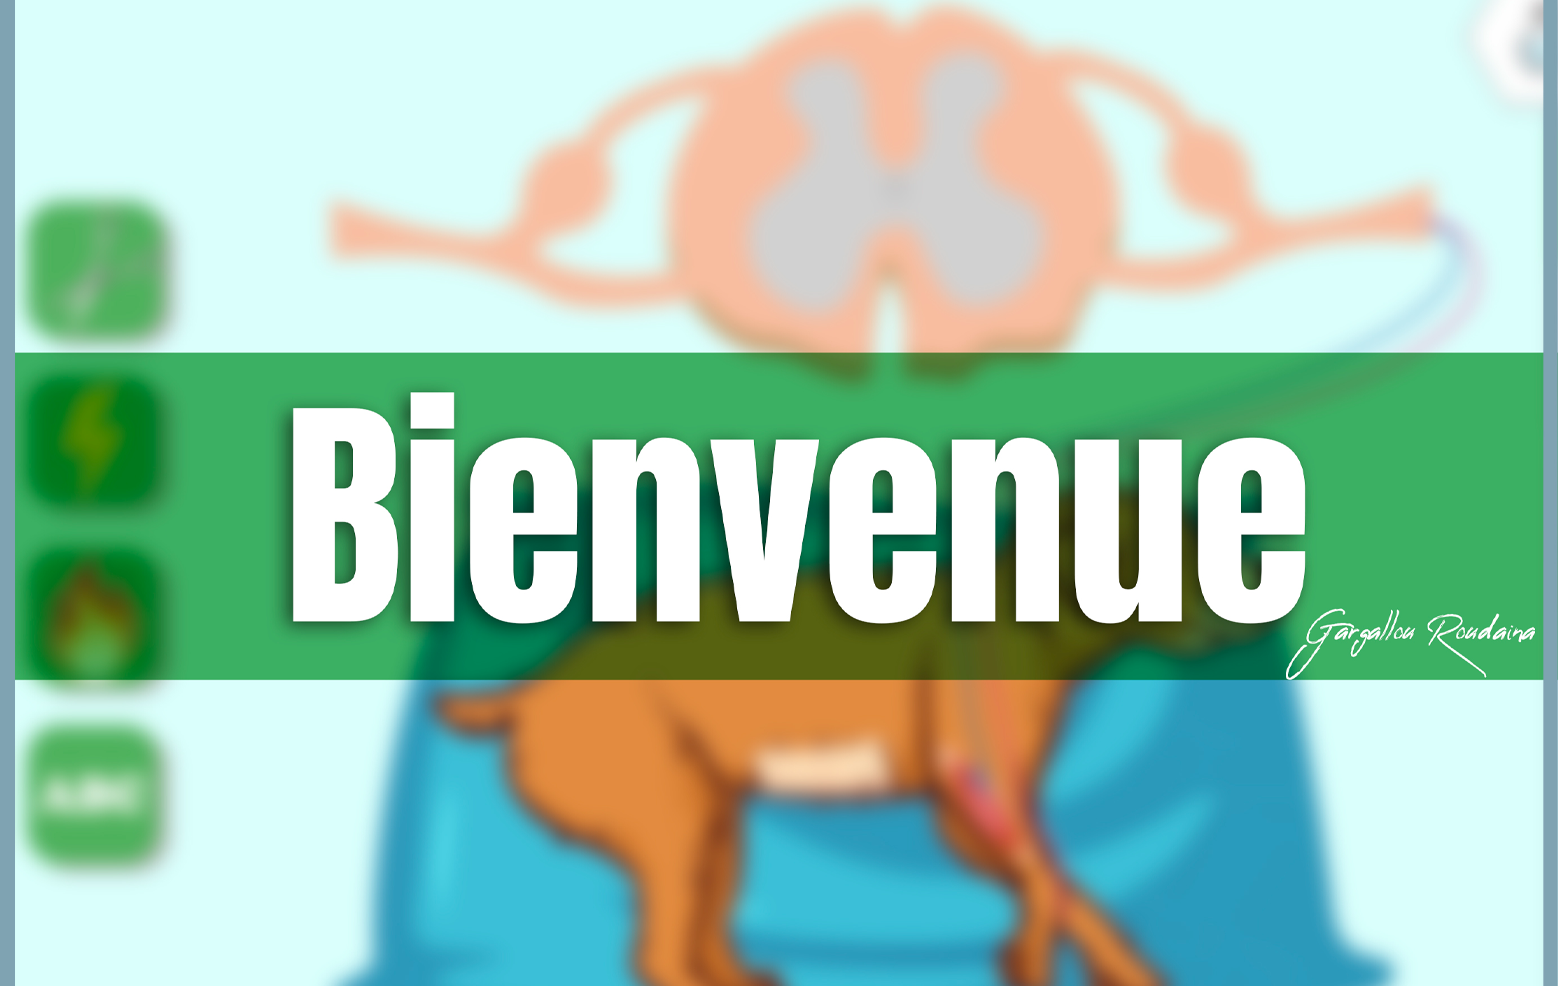
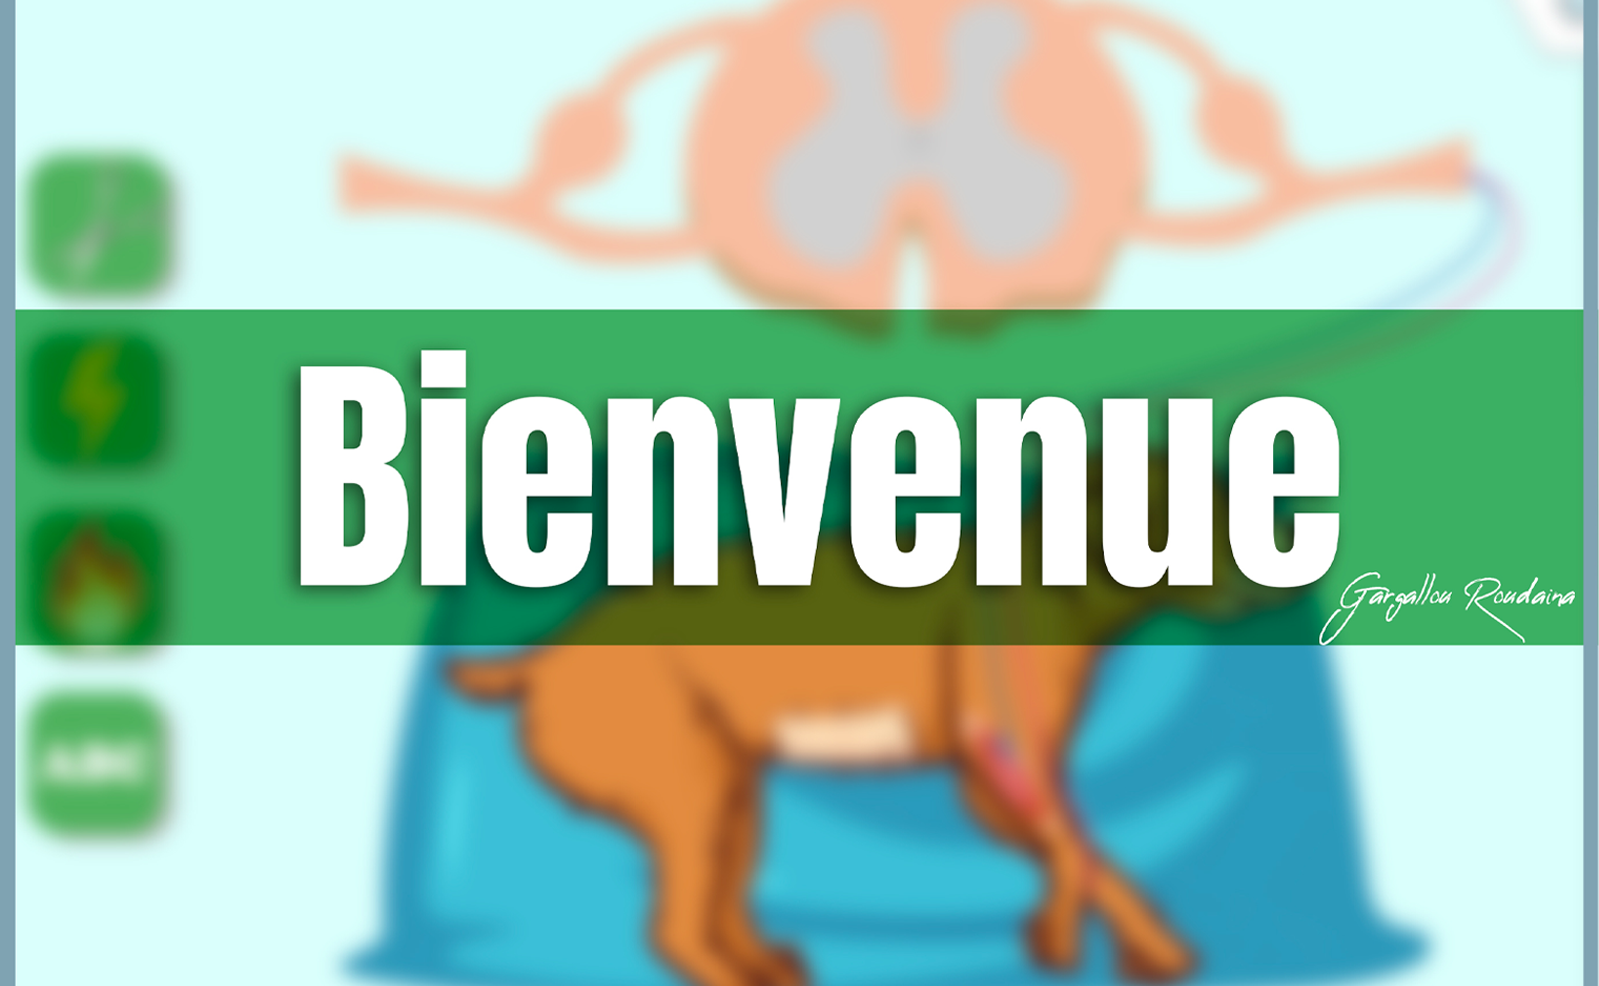
fix ienvenue

diff --git a/index.html b/index.html
@@ -4,7 +4,9 @@
 <head>
     <meta charset="UTF-8">
     <meta name="viewport" content="width=device-width, initial-scale=1.0">
-    <title>Lab Notebook</title>
+    <title>BIOSIM LAB - ERIPDS</title>
+    <link rel="icon" href="/favicon.jpg.png" type="image/x-icon">
+
     <style>
         body {
             font-family: 'Bernard MT Condensed', sans-serif;
@@ -17,8 +19,8 @@
             background-color: #7fa2b2;
             color: #ffffff;
             width: 250px;
-            height: 100vh;
-            padding: 20px;
+            height: 100%;
+            padding-left: 20px;
             box-shadow: -2px 0 5px rgba(0, 0, 0, 0.2);
             position: fixed;
             top: 0;
@@ -26,23 +28,29 @@
             display: flex;
             flex-direction: column;
             align-items: center;
+            justify-content: space-between; /* Ensures items are spaced */
             z-index: 2;
         }
 
         #sidebar img {
             height: auto;
             margin-bottom: 20px;
+            
         }
 
         #sidebar .logo {
             width: 290px;
             height: auto;
+            padding: -10px;
+
+            
         }
 
         #sidebar ul {
             list-style: none;
             padding: 0;
             width: 100%;
+            flex-grow: 1; /* Allows the list to take up remaining space */
         }
 
         #sidebar li {
@@ -65,7 +73,7 @@
             height: 100px;
             left: -64px;
             top: 20px;
-            z-index: auto;
+            z-index: 1;
         }
 
         .overlay {
@@ -83,6 +91,10 @@
             font-family: 'Calisto MT', sans-serif;
             z-index: 1;
             box-sizing: border-box;
+        }
+
+        .BBoverlay {
+            display: none;
         }
 
         .overlay-content {
@@ -121,6 +133,13 @@
             position: fixed;
             overflow: hidden;
         }
+
+        #copyright {
+            font-family: 'Bernard MT Condensed', sans-serif;
+            font-size: 16px;
+            text-align: left;
+            padding-top: 20px;
+        }
     </style>
 </head>
 
@@ -135,10 +154,11 @@
             <li onclick="showOverlay('protocole')">Protocole</li>
             <li onclick="showOverlay('conclusion')">Conclusion</li>
         </ul>
+        <div id="copyright">Copyright © 2024 by ERIPDS</div>
     </div>
-    
-    <div id="overlay-bienvenue" >
-        <img src="cover.png" width="81.9%">
+
+    <div id="overlay-bienvenue" class="BBoverlay">
+        <img src="cover.png" width="83.9%">
     </div>
 
     <div id="overlay-contexte" class="overlay">
